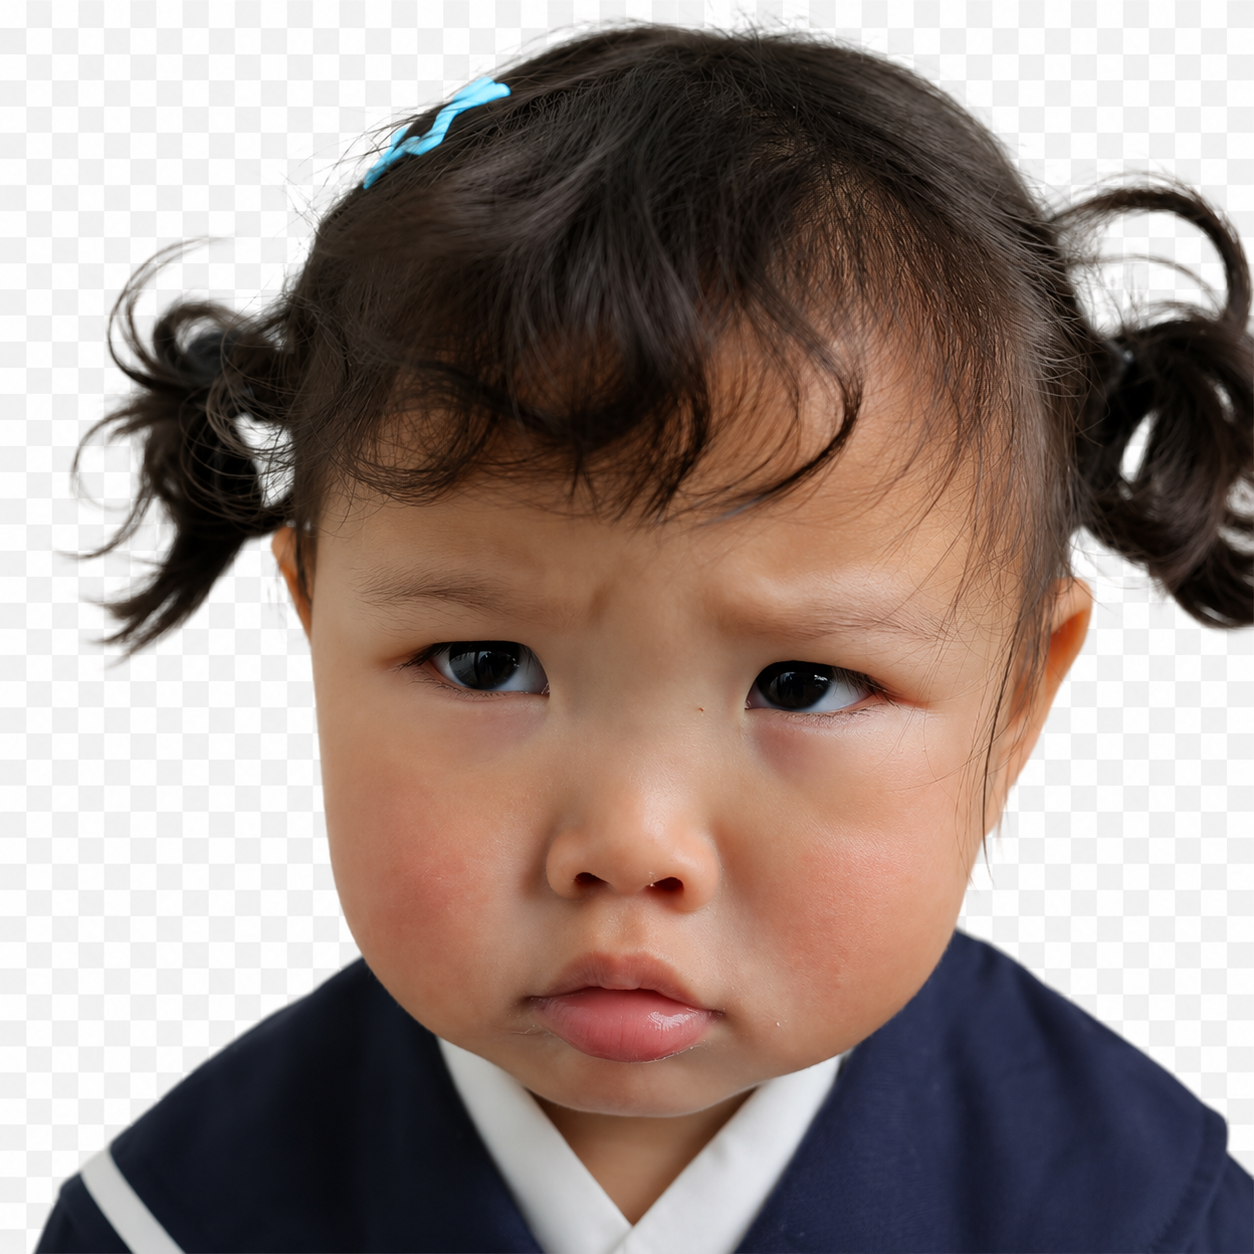
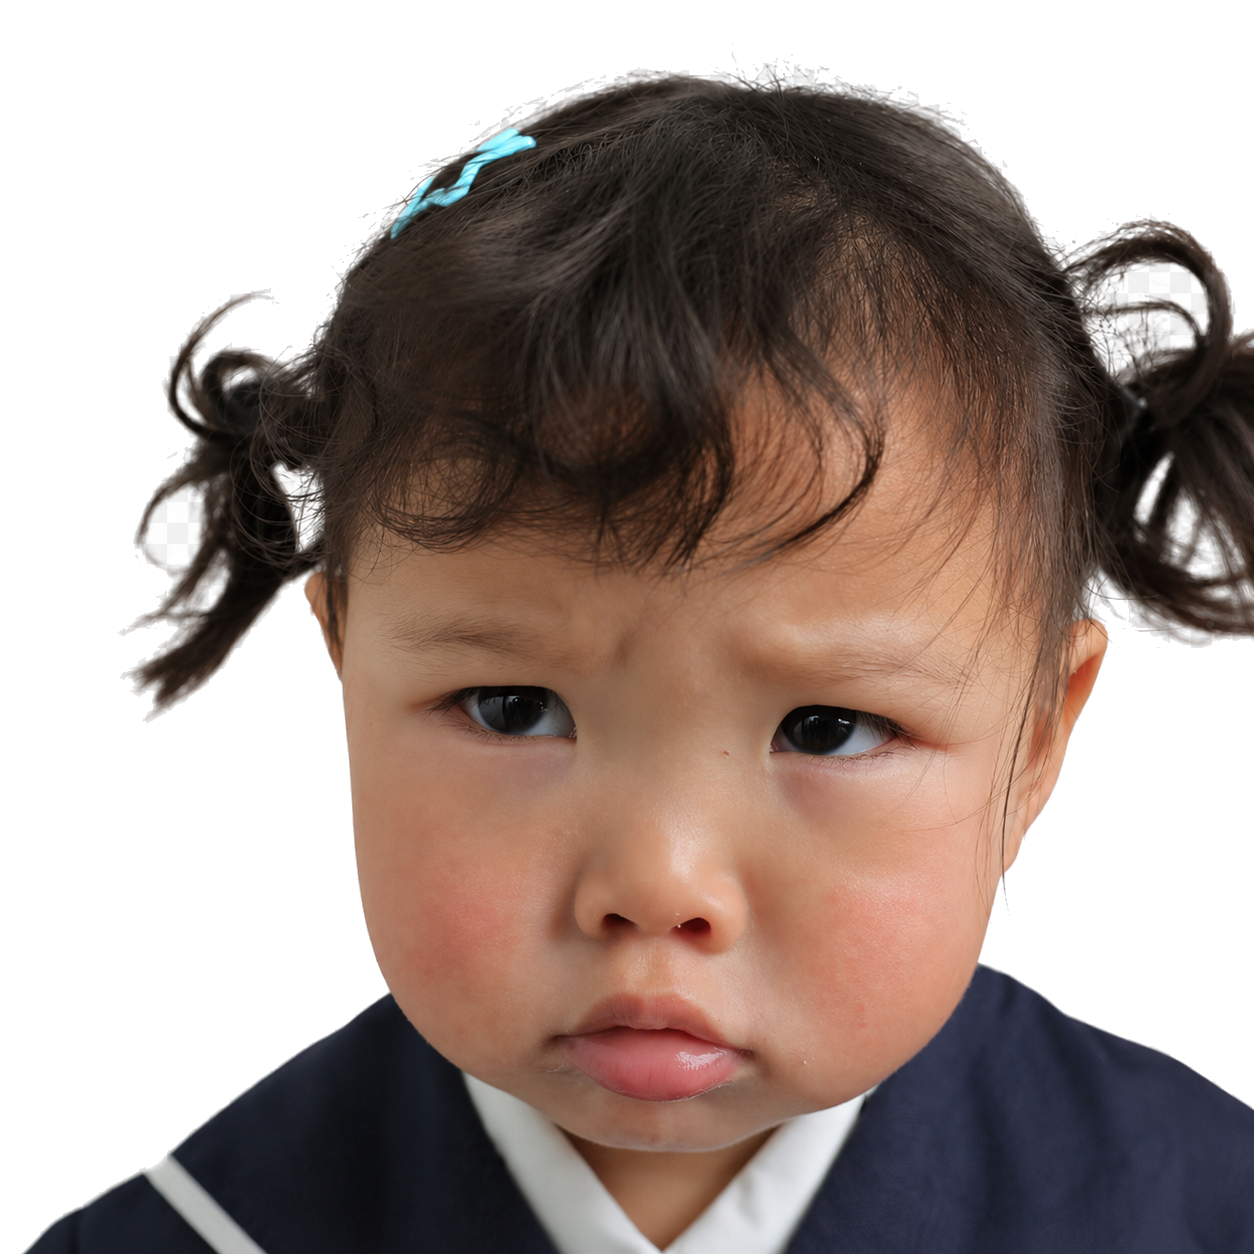
chore: sync pending changes

diff --git a/Scripts/test_keyboard_letter_key_layout.py b/Scripts/test_keyboard_letter_key_layout.py
@@ -193,6 +193,11 @@ def main() -> int:
         "shift lower image exists": SHIFT_LOWER_IMAGE.exists(),
         "shift upper image is a png": shift_upper_image.get("is_png") is True,
         "shift lower image is a png": shift_lower_image.get("is_png") is True,
+        "shift lower image has alpha channel": shift_lower_image.get("has_alpha") is True,
+        "shift lower image background corners are transparent": (
+            isinstance(shift_lower_image.get("corner_alpha"), list)
+            and shift_lower_image.get("corner_alpha")[:3] == [0, 0, 0]
+        ),
         "shift upper asset maps to uppercase icon": 'return "大写图标"' in source,
         "shift lower asset maps to lowercase icon": 'return "小写图标"' in source,
         "backspace uses clear-symbol asset": 'return "icons8-clear-symbol-48"' in source,
